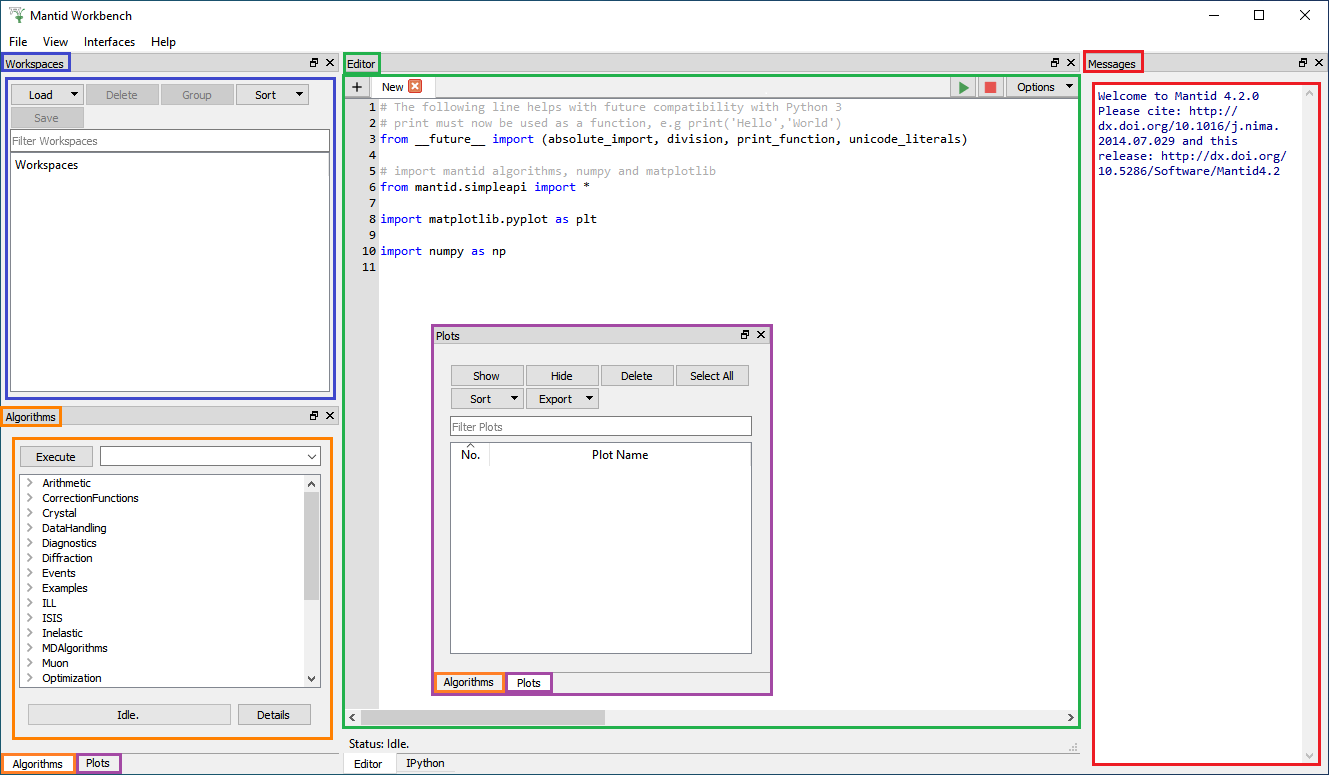
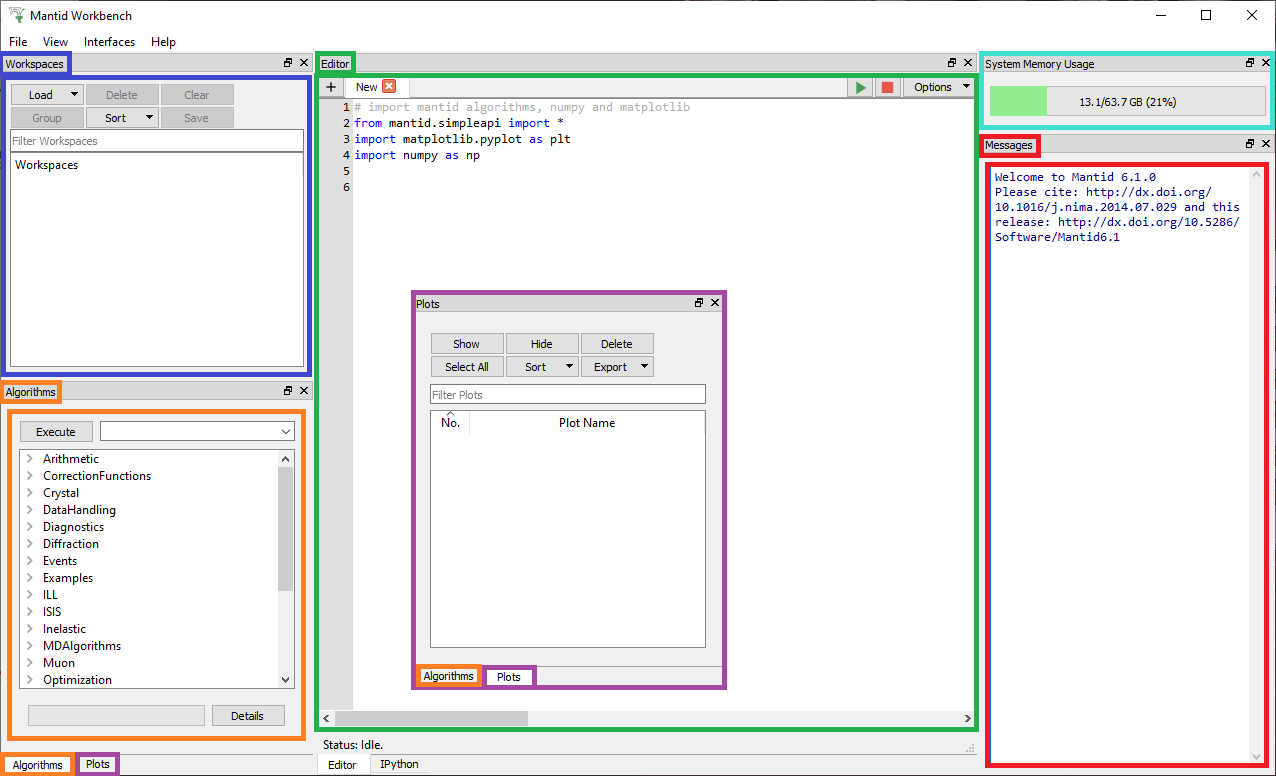
Add memory widget to main window image.

Changed region(s): [[0.0, 0.0, 1.0, 1.0], [0.9781, 0.0, 1.0, 0.031]]

diff --git a/docs/source/tutorials/mantid_basic_course/getting_started/main_window.rst b/docs/source/tutorials/mantid_basic_course/getting_started/main_window.rst
@@ -11,12 +11,14 @@ Workbench Main Window
     <style> .blue {color:#0000FF; font-weight:bold} </style>
     <style> .orange {color:#FF8C00; font-weight:bold} </style>
     <style> .purple {color:#A431E6; font-weight:bold} </style>
+    <style> .turquoise {color:#40E0D0; font-weight:bold} </style>
 
 .. role:: red
 .. role:: blue
 .. role:: green
 .. role:: orange
 .. role:: purple
+.. role:: turquoise
 
 Layout
 ======
@@ -34,8 +36,9 @@ As a quick introduction, the main window contains these Toolboxes:
 - :purple:`Plots Toolbox`: Click on the Plots button in the bottom-left to reveal this toolbox. When you plot a graph in Workbench, it can be tracked here.
 - :green:`Script Editor`: Run Python scripts here to control Mantid. Much more functionality with scripts, but beyond the scope of this basic course.
 - :red:`Messages Box`: Any output text, from an algorithm or script. :red:`Errors are displayed here in red`.
+- :turquoise:`System Memory Usage`: Displays the current system memory usage.
 
-**Note** to find out what Mantid version you are using, look at the first message in the :red:`Messages Box`. You can see I'm using Mantid 4.2.0.
+**Note** to find out what Mantid version you are using, look at the first message in the :red:`Messages Box`. You can see I'm using Mantid 6.1.0.
 
 Quick Intro to Workspaces and Bins
 ==================================
